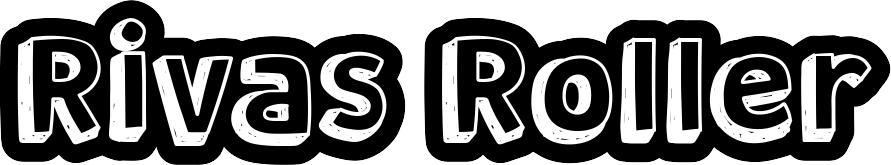
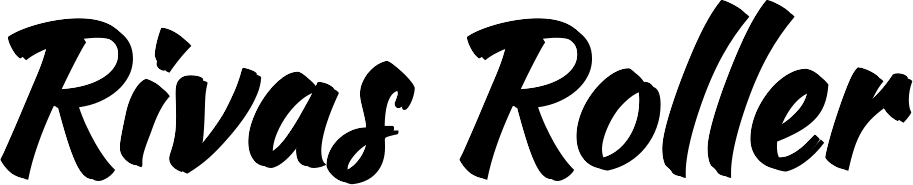
Style title

diff --git a/public/stylesheets/style.css b/public/stylesheets/style.css
@@ -1,7 +1,4 @@
 @import url('https://fonts.googleapis.com/css2?family=Fira+Sans:ital@1&display=swap');
-
-@import url('https://fonts.googleapis.com/css2?family=BIZ+UDPMincho&family=Crete+Round&display=swap');
-
 *{
     font-family: 'Fira Sans', sans-serif;
 }
@@ -18,10 +15,10 @@ main{
     justify-content: center;
     height: 84vh;
     width: 76%;
-    padding: 23px 5%;
+    padding: 6px 5%;
     margin-right: auto;
     margin-right: auto;
-    margin-top: 50px;
+    margin-top: 33px;
     border-radius: 59px;
     background: #1c92d2;  /* fallback for old browsers */
     background: -webkit-linear-gradient(to right, #f2fcfe, #1c92d2);  /* Chrome 10-25, Safari 5.1-6 */
@@ -32,6 +29,7 @@ main{
 
 main #img_title{
     width: 230px;
+    margin-bottom: -10px;
 }
 
 #titulo{
@@ -96,11 +94,11 @@ main input{
    
 }
 .publish{
-    justify-content: center;
+    text-align: center;
     margin: 0;
 }
  .publish input[type="search"]{
-    background-image: url(../img/phone.png);
+    background-image: url(../img/search.png);
     background-repeat: no-repeat;
     background-position: right;
     background-size: contain;
@@ -116,7 +114,7 @@ main input{
 
 
 .content_publish #img_user{
-    width: 160%;
+    width: 153%;
     height: 140%;
     margin-top: -25px;
 }
@@ -147,7 +145,7 @@ main input{
 }
 
 .publish_text_more_like{
-    padding: 4px;
+    padding: -4px;
 }
  
 .publish_text_all_comments {
@@ -161,8 +159,6 @@ main input{
  
 #name_app{
     margin-top: -35px;
-    font-family: 'BIZ UDPMincho', serif;
-font-family: 'Crete Round', serif;
 }
  
 .like_and_coment{
